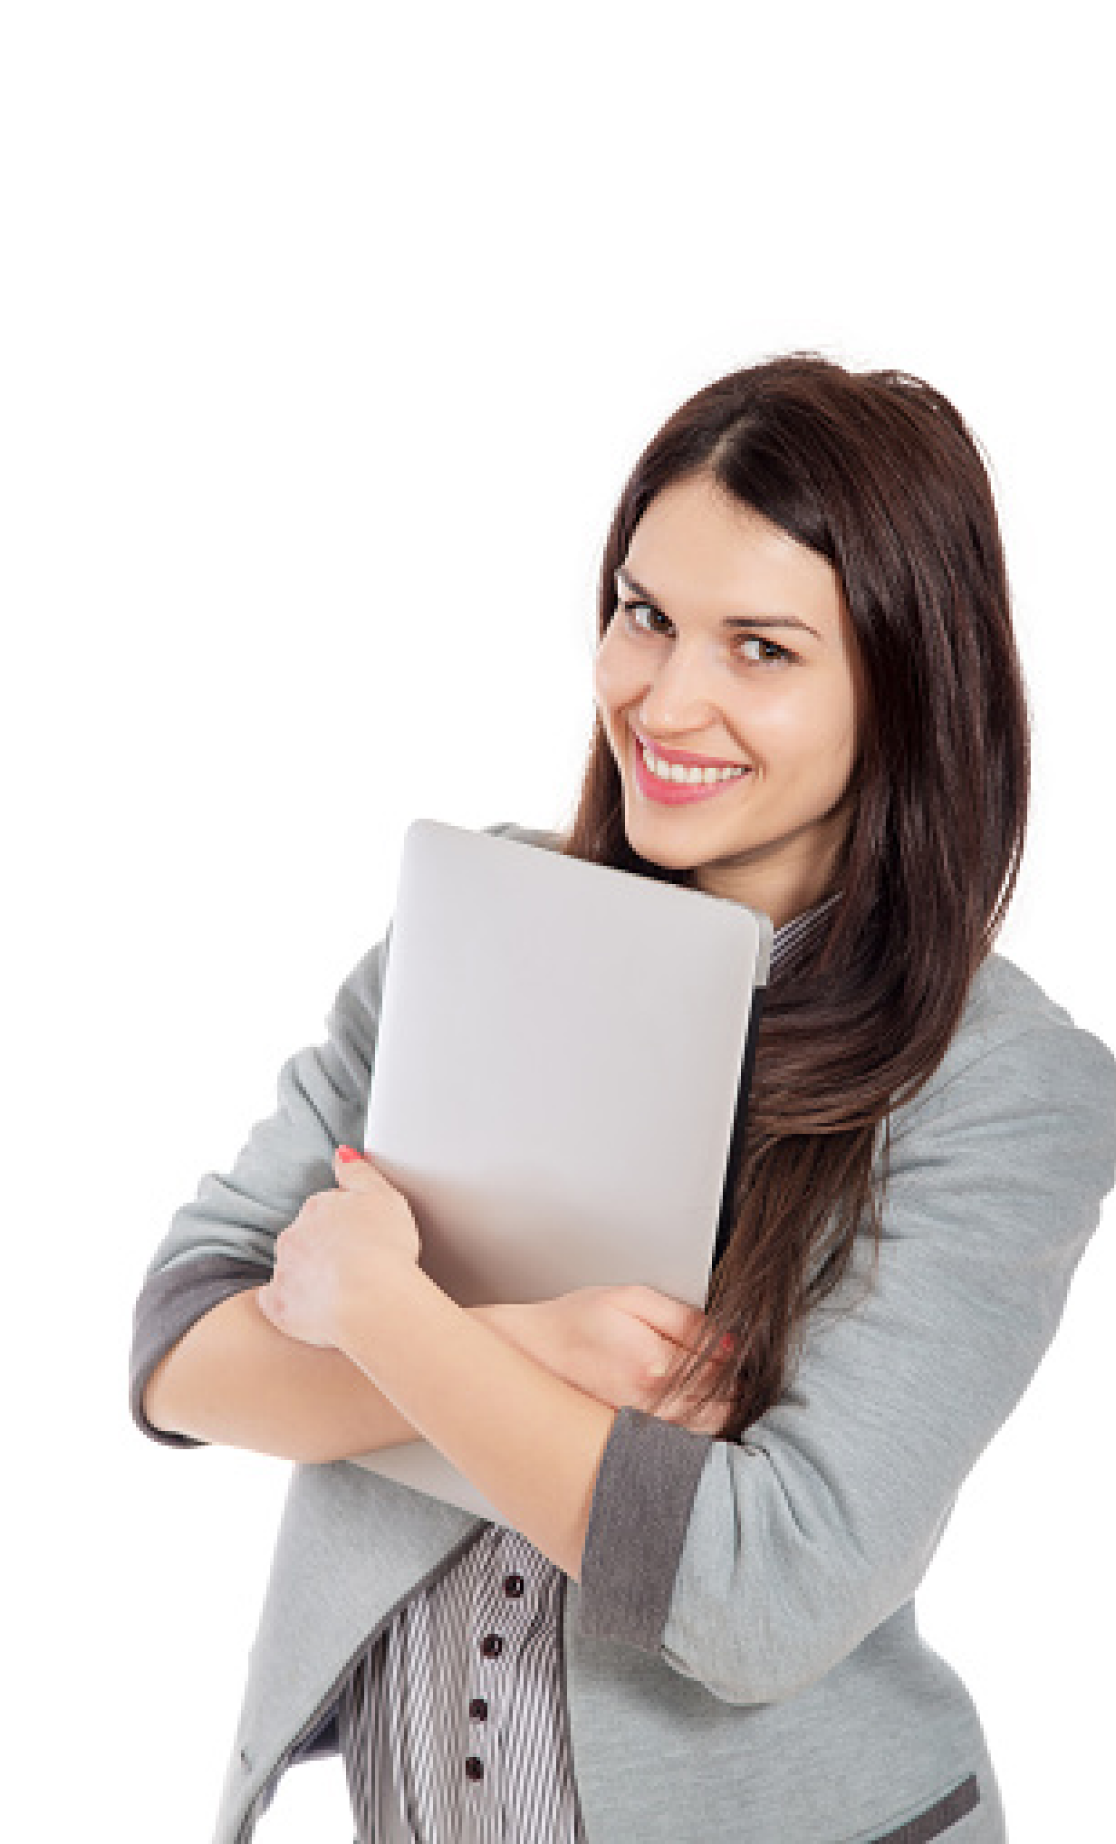
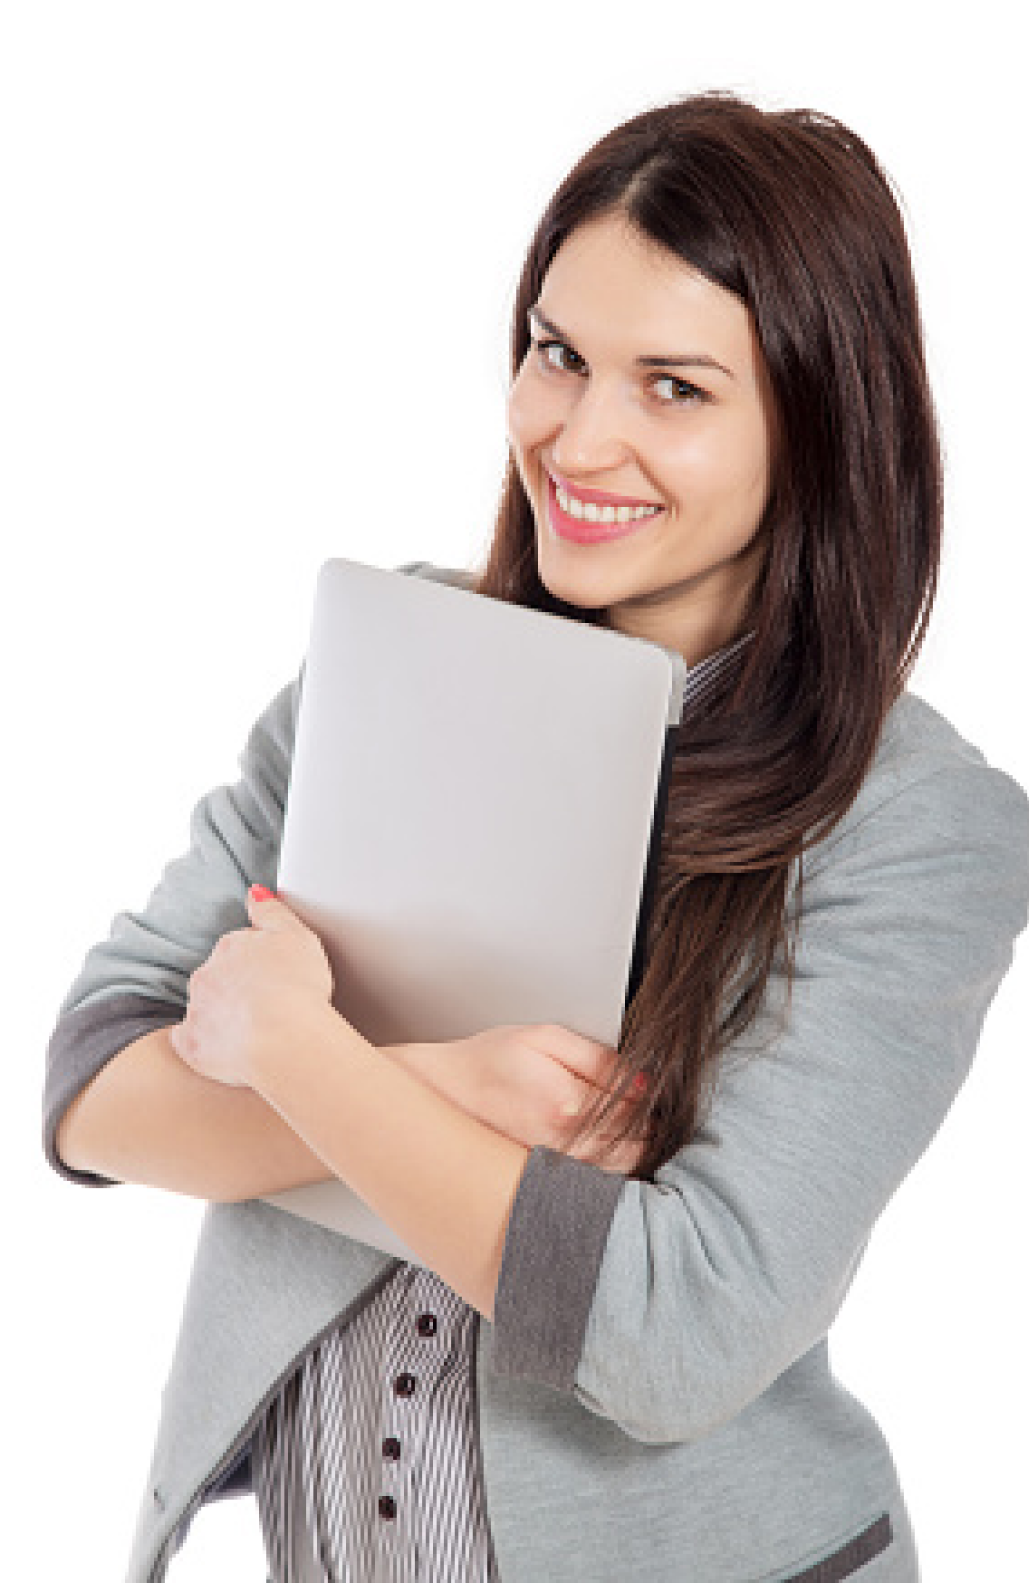
commit

diff --git a/index.html b/index.html
@@ -39,17 +39,15 @@
       </div>
     </div>
   </header>
-  <section class="w-full min-h-screen bg-gradient-to-r from-[#3f0ca3] via-[#3d18b1] to-[#4621af] text-white flex items-center px-10 md:px-20 py-20 pt-[119px] lg:pt-0">
+  <section class="w-full min-h-screen bg-gradient-to-r from-[#3f0ca3] via-[#3d18b1] to-[#4621af] text-white flex items-center px-6 md:px-10 lg:px-20 py-20 pt-[119px] lg:pt-0">
     <div class="flex flex-col-reverse md:flex-row items-center justify-between w-full gap-10 max-w-7xl mx-auto">
       <div class="flex-1 space-y-8 text-center md:text-left">
-        <div class="flex-1 space-y-8 text-center md:text-left">
-          <p class="uppercase tracking-wide text-sm text-gray-200">Successful coaches are visionaries</p>
-          <h1 class="text-4xl md:text-6xl font-extrabold leading-tight">
-            Good <span class="text-blue-400">coaching</span> is<br />
-            good teaching &<br />
-            nothing else.
-          </h1>
-        </div>
+        <p class="uppercase tracking-wide text-sm text-gray-200">Successful coaches are visionaries</p>
+        <h1 class="text-4xl md:text-6xl font-extrabold leading-tight">
+          Good <span class="text-blue-400">coaching</span> is<br />
+          good teaching &<br />
+          nothing else.
+        </h1>
         <div class="flex flex-wrap items-center justify-center md:justify-start gap-4">
           <a href="#" class="px-6 py-2 border border-white rounded-md hover:bg-white hover:text-blue-700 font-medium">
             View Courses
@@ -69,16 +67,20 @@
           </button>
         </div>
       </div>
-      <div class="absolute top-10 md:top-20 -left-20 md:left-0 lg:left-20 text-sm md:text-base text-white max-w-[200px] md:max-w-[250px] p-4 bg-white/10 backdrop-blur-sm rounded-lg shadow-md z-20">
-        <p class="font-bold mb-1">Shyam</p>
-        <p class="text-gray-100 text-xs md:text-sm">
-          In a coaching role, you ask the questions and rely more on your staff, who become the experts, to provide the information.
-        </p>
-        <p class="text-blue-300 mt-1 text-xs">4.9</p>
-      </div>
+
       <div class="flex-1 relative flex justify-center md:justify-end items-center mt-10 md:mt-0">
-        <div class="absolute w-[558px] h-[992px] md:w-[600px] md:h-[600px] rounded-full z-0"></div>
-        <img src="images/woman-laptop.png" alt="Woman standing with documents" class="w-full max-w-xs sm:max-w-sm md:max-w-md lg:max-w-lg relative z-10">
+        <div class="absolute w-[300px] h-[300px] md:w-[600px] md:h-[600px] bg-white opacity-20 blur-[150px] rounded-full z-0"></div>
+
+        <img src="images/woman-laptop.png" alt="Woman standing with documents" class="w-full max-w-xs sm:max-w-sm md:max-w-md lg:max-w-lg relative z-10 -translate-x-[20px]">     
+           <div class="absolute top-10 md:top-20 -left-10 md:left-0 lg:left-20 text-sm md:text-base text-white max-w-[200px] md:max-w-[250px] p-4 bg-white/10 backdrop-blur-sm rounded-lg shadow-md z-20">
+          <div class="absolute top-10 md:top-20 right-0 md:right-10 lg:right-20 xl:right-20 text-sm md:text-base text-white max-w-[200px] md:max-w-[200px] p-4 bg-white/10 backdrop-blur-sm rounded-lg shadow-md z-20">
+            <p class="font-bold mb-1">Shyam</p>
+            <p class="text-gray-100 text-xs md:text-sm">
+              In a coaching role, you ask the questions and rely more on your staff, who become the experts, to provide the information.
+            </p>
+            <p class="text-blue-300 mt-1 text-xs">4.9</p>
+          </div>
+        </div>
       </div>
     </div>
   </section>
@@ -91,6 +93,7 @@
       <img src="images/logitech.png" alt="Logitech" class="h-6 md:h-8 object-contain" />
     </div>
   </section>
+ 
 
 
   <section class="py-20 px-6 bg-gradient-to-b from-[#f0f4ff] to-white">
